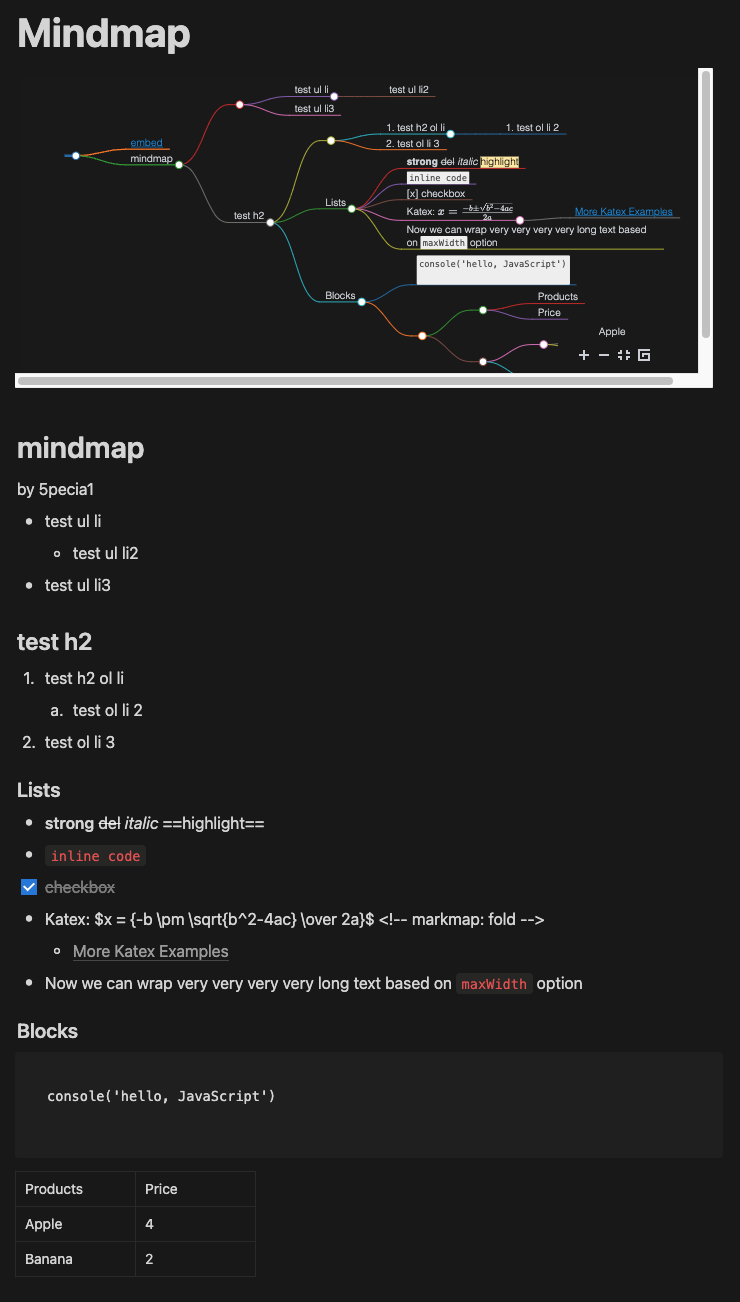
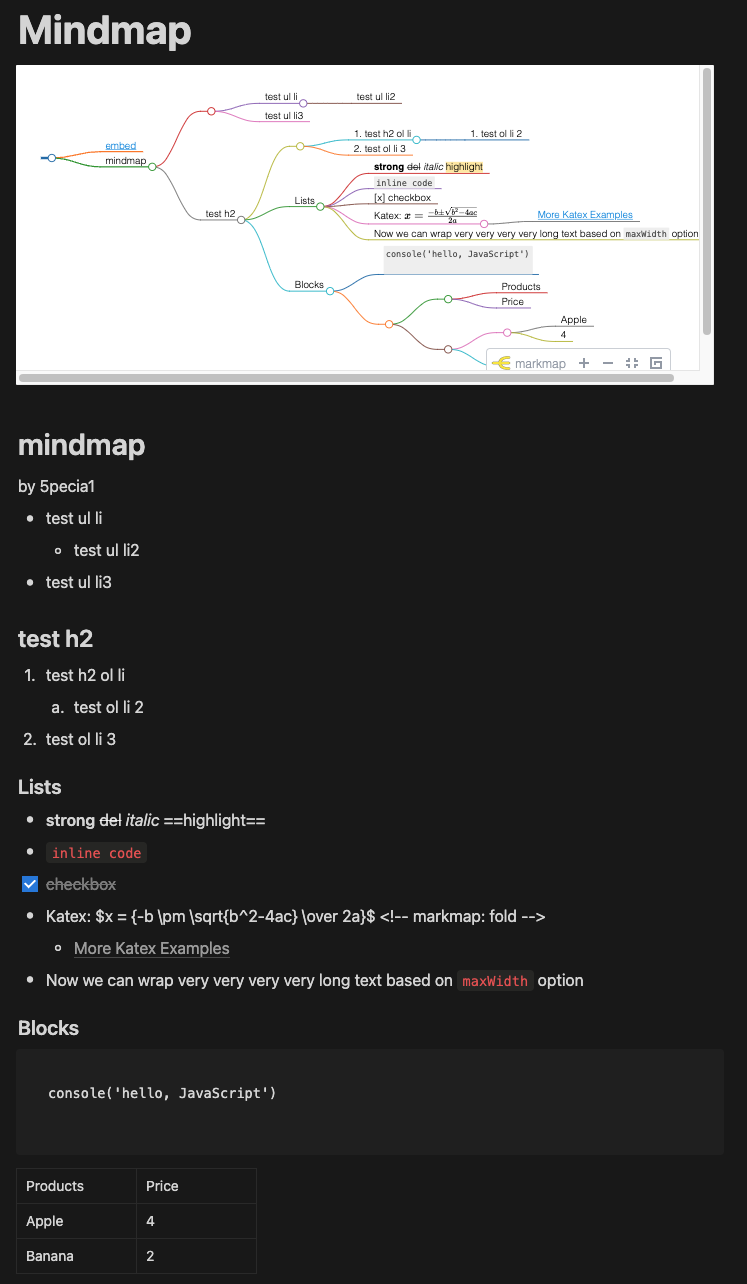
update to white theme

diff --git a/notion-mindmap/mindmap.html b/notion-mindmap/mindmap.html
@@ -5,97 +5,17 @@
     <meta charset="utf-8">
     <meta name="viewport" content="width=device-width, initial-scale=1">
     <script>
-        const darkThemeCSS = {
-            type: 'style',
-            data: `
-    .markmap {
-      font: 300 16px/20px sans-serif;
-      color: #d1d5db; /* 밝은 글자색 */
-      background-color: #1a1a1a; /* 어두운 배경색 */
-    }
-
-    .markmap-link {
-      fill: none;
-    }
-
-    .markmap-node > circle {
-      cursor: pointer;
-    }
-
-    .markmap-foreign {
-      display: inline-block;
-      max-width: 400px;
-      word-wrap: break-word;
-      word-break: normal;
-    }
-
-    .markmap-foreign a {
-      color: #58a6ff; /* 밝은 링크 색상 */
-    }
-
-    .markmap-foreign a:hover {
-      color: #68b8ff; /* 밝은 링크 호버 색상 */
-    }
-
-    .markmap-foreign code {
-      padding: 0.25em;
-      font-size: calc(1em - 2px);
-      color: #d1d5db; /* 밝은 코드 글자색 */
-      background-color: #2d2d2d; /* 어두운 코드 배경색 */
-      border-radius: 2px;
-    }
-    
-    .markmap-foreign pre {
-      margin: 0;
-    }
-
-    .markmap-foreign pre > code {
-      display: block;
-    }
-
-    .markmap-foreign del {
-      text-decoration: line-through;
-    }
-
-    .markmap-foreign em {
-      font-style: italic;
-    }
-
-    .markmap-foreign strong {
-      font-weight: bold;
-    }
-
-    .markmap-foreign mark {
-      background: #a855f7; /* 다크 테마 하이라이트 색상 */
-    }
-    .mm-toolbar {
-        display: flex;
-        justify-content: space-between;
-        align-items: center;
-        padding: 0.5rem 1rem;
-        background-color: #1a1a1a;
-        color: #d1d5db;
-        font-size: 1rem;
-        font-weight: 500;
-        line-height: 1.5;
-        border-bottom: 1px solid #4b5563;
-    }
-    .mm-toolbar-brand {
-        display: none;
-    }
-  `
-        };
         window.markmap = {
             autoLoader: {
                 toolbar: true,
                 manual: true,
-                baseCss: [darkThemeCSS]
             },
         };
     </script>
     <script src="https://cdn.jsdelivr.net/npm/markmap-autoloader@latest"></script>
     <script>
-        const URL = "{{ $node["Set Environments"].parameter["values"]["string"][0]["value"] }}";
+        const URL = "{{ $node["Set Environments"].parameter["values"]["string"][0]["value"] }}/webhook/{{ $node["get notion data"].parameter["path"] }}";
+
         let markdown = "";
 
         async function callMarkdown() {
@@ -150,6 +70,9 @@
         }, 1000);
     </script>
     <style>
+        body {
+            background-color: white;
+        }
         .markmap {
             position: relative;
         }
